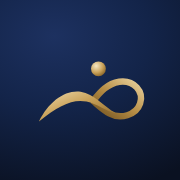
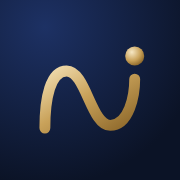
Marca Trilha N no cabeçalho e nos ícones do app
- .blogo (src/app/corpo.html): trilha em N + ponto da meta, mesmas
  variáveis --lg1/2/3 no claro e no escuro
- icons/: favicon-32 (traço 12), icon-192/512, maskable-512 (margem
  segura), apple-touch-icon, fundo do ícone em gradiente
- CLAUDE.md e docs/decisoes.md atualizados
- t79 (75) e rodada rápida passando

Claude-Session: https://claude.ai/code/session_01HEbK3ZzY7hrRX92iGGm1FD

Changed region(s): [[0.1944, 0.3611, 0.8056, 0.75], [0.6944, 0.25, 0.8056, 0.3611], [0.5, 0.3333, 0.6111, 0.4444]]

diff --git a/index.html b/index.html
@@ -15,12 +15,12 @@
 <meta name="apple-mobile-web-app-title" content="Nexus">
 <meta name="apple-mobile-web-app-status-bar-style" content="default">
 <style>:root{color-scheme:light;padding-top:env(safe-area-inset-top,0px);padding-bottom:env(safe-area-inset-bottom,0px)}body{margin:0;font:14px/1.5 system-ui,-apple-system,sans-serif}img{max-width:100%}[hidden]{display:none!important}</style>
-<link rel="stylesheet" href="site.css?v=5f52de37">
+<link rel="stylesheet" href="site.css?v=640cb733">
 <script src="https://www.gstatic.com/firebasejs/10.12.2/firebase-app-compat.js"></script>
 <script src="https://www.gstatic.com/firebasejs/10.12.2/firebase-auth-compat.js"></script>
 <script src="https://www.gstatic.com/firebasejs/10.12.2/firebase-firestore-compat.js"></script>
-<script src="config.js?v=5f52de37"></script>
-<script src="bridge.js?v=5f52de37"></script>
+<script src="config.js?v=640cb733"></script>
+<script src="bridge.js?v=640cb733"></script>
 </head>
 <body>
 <script>
@@ -2314,7 +2314,7 @@ html[data-cols="2"]:is([data-layout="desktop"],[data-layout="tablet"]) .cdnumg{g
   <header>
     <button class="hbtn hmenu" id="navMenuBtn" type="button" aria-label="Abrir o menu" title="Menu" aria-expanded="false"><svg class="hico" viewBox="0 0 24 24" aria-hidden="true"><path d="M4 7h16M4 12h16M4 17h16"/></svg></button>
     <div class="hacts" id="hacts"><button class="hbtn" id="srchBtn" type="button" aria-label="Buscar em tudo" title="Buscar em tudo (Ctrl+K)"><svg class="hico" viewBox="0 0 24 24" aria-hidden="true"><circle cx="10.5" cy="10.5" r="6"/><path d="M15 15l5 5"/></svg></button><button class="hbtn hprof" id="profBtn" type="button" aria-label="Perfil" title="Perfil" aria-pressed="false"><svg class="hico" viewBox="0 0 24 24" aria-hidden="true"><circle cx="12" cy="8.5" r="3.6"/><path d="M4.8 20c.9-3.6 3.8-5.6 7.2-5.6s6.3 2 7.2 5.6"/></svg><span id="profIni"></span></button><button class="hbtn" id="cfgBtn" type="button" aria-label="Configurações" title="Configurações" aria-pressed="false"><svg class="hico" viewBox="0 0 24 24" aria-hidden="true"><circle cx="12" cy="12" r="3.1"/><path d="M19.4 13.4a7.7 7.7 0 0 0 0-2.8l2-1.6-2-3.4-2.4 1a7.4 7.4 0 0 0-2.4-1.4L14.2 2.6h-4l-.4 2.6a7.4 7.4 0 0 0-2.4 1.4l-2.4-1-2 3.4 2 1.6a7.7 7.7 0 0 0 0 2.8l-2 1.6 2 3.4 2.4-1a7.4 7.4 0 0 0 2.4 1.4l.4 2.6h4l.4-2.6a7.4 7.4 0 0 0 2.4-1.4l2.4 1 2-3.4z"/></svg></button></div>
-    <h1 class="brand"><svg class="blogo" viewBox="0 0 120 80" aria-hidden="true" focusable="false"><defs><linearGradient id="nxg1" x1="0" y1="0" x2="1" y2="1"><stop offset="0" style="stop-color:var(--lg1,#F1DDB0)"/><stop offset=".45" style="stop-color:var(--lg2,#C9A25A)"/><stop offset="1" style="stop-color:var(--lg3,#8A6528)"/></linearGradient><linearGradient id="nxg2" x1="1" y1="0" x2="0" y2="1"><stop offset="0" style="stop-color:var(--lg1,#E9D19C)"/><stop offset=".5" style="stop-color:var(--lg2,#B68D45)"/><stop offset="1" style="stop-color:var(--lg3,#6E4F1E)"/></linearGradient><radialGradient id="nxg3" cx=".35" cy=".3" r=".75"><stop offset="0" style="stop-color:var(--lg1,#F6E7C4)"/><stop offset=".6" style="stop-color:var(--lg2,#C9A25A)"/><stop offset="1" style="stop-color:var(--lg3,#8A6528)"/></radialGradient></defs><path d="M63 49 C70 40 77 32 89 30 C104 28 114 40 110 52 C106 64 90 68 79 62 C72 58 67 53 62 49" fill="none" stroke="url(#nxg2)" stroke-width="6.5" stroke-linecap="butt"/><path d="M8 70 C18 50 34 38 50 40 C64 42 72 54 86 62 C76 60 66 52 56 50 C42 47 28 54 8 70 Z" fill="url(#nxg1)"/><circle cx="68" cy="17" r="7.5" fill="url(#nxg3)"/></svg><span class="bname"><span class="bn1">Nexus</span><span class="vh"> - </span><span class="bn2">Trilha Médica</span></span></h1>
+    <h1 class="brand"><svg class="blogo" viewBox="0 0 120 80" aria-hidden="true" focusable="false"><defs><linearGradient id="nxg1" x1="0" y1="0" x2="1" y2="1"><stop offset="0" style="stop-color:var(--lg1,#F1DDB0)"/><stop offset=".45" style="stop-color:var(--lg2,#C9A25A)"/><stop offset="1" style="stop-color:var(--lg3,#8A6528)"/></linearGradient><radialGradient id="nxg3" cx=".35" cy=".3" r=".75"><stop offset="0" style="stop-color:var(--lg1,#F6E7C4)"/><stop offset=".6" style="stop-color:var(--lg2,#C9A25A)"/><stop offset="1" style="stop-color:var(--lg3,#8A6528)"/></radialGradient></defs><path d="M25 66 C25 44 29 24 41 24 C55 24 59 64 73 64 C87 64 91 42 91 30" fill="none" stroke="url(#nxg1)" stroke-width="8" stroke-linecap="round" stroke-linejoin="round"/><circle cx="91" cy="13" r="7" fill="url(#nxg3)"/></svg><span class="bname"><span class="bn1">Nexus</span><span class="vh"> - </span><span class="bn2">Trilha Médica</span></span></h1>
     <p class="lede">198 temas de alta recorrência nas 5 grandes áreas. Estude no seu ritmo: o app agenda as revisões e mostra onde você mais erra.</p>
   </header>
 

diff --git a/src/app/corpo.html b/src/app/corpo.html
@@ -4,7 +4,7 @@
   <header>
     <button class="hbtn hmenu" id="navMenuBtn" type="button" aria-label="Abrir o menu" title="Menu" aria-expanded="false"><svg class="hico" viewBox="0 0 24 24" aria-hidden="true"><path d="M4 7h16M4 12h16M4 17h16"/></svg></button>
     <div class="hacts" id="hacts"><button class="hbtn" id="srchBtn" type="button" aria-label="Buscar em tudo" title="Buscar em tudo (Ctrl+K)"><svg class="hico" viewBox="0 0 24 24" aria-hidden="true"><circle cx="10.5" cy="10.5" r="6"/><path d="M15 15l5 5"/></svg></button><button class="hbtn hprof" id="profBtn" type="button" aria-label="Perfil" title="Perfil" aria-pressed="false"><svg class="hico" viewBox="0 0 24 24" aria-hidden="true"><circle cx="12" cy="8.5" r="3.6"/><path d="M4.8 20c.9-3.6 3.8-5.6 7.2-5.6s6.3 2 7.2 5.6"/></svg><span id="profIni"></span></button><button class="hbtn" id="cfgBtn" type="button" aria-label="Configurações" title="Configurações" aria-pressed="false"><svg class="hico" viewBox="0 0 24 24" aria-hidden="true"><circle cx="12" cy="12" r="3.1"/><path d="M19.4 13.4a7.7 7.7 0 0 0 0-2.8l2-1.6-2-3.4-2.4 1a7.4 7.4 0 0 0-2.4-1.4L14.2 2.6h-4l-.4 2.6a7.4 7.4 0 0 0-2.4 1.4l-2.4-1-2 3.4 2 1.6a7.7 7.7 0 0 0 0 2.8l-2 1.6 2 3.4 2.4-1a7.4 7.4 0 0 0 2.4 1.4l.4 2.6h4l.4-2.6a7.4 7.4 0 0 0 2.4-1.4l2.4 1 2-3.4z"/></svg></button></div>
-    <h1 class="brand"><svg class="blogo" viewBox="0 0 120 80" aria-hidden="true" focusable="false"><defs><linearGradient id="nxg1" x1="0" y1="0" x2="1" y2="1"><stop offset="0" style="stop-color:var(--lg1,#F1DDB0)"/><stop offset=".45" style="stop-color:var(--lg2,#C9A25A)"/><stop offset="1" style="stop-color:var(--lg3,#8A6528)"/></linearGradient><linearGradient id="nxg2" x1="1" y1="0" x2="0" y2="1"><stop offset="0" style="stop-color:var(--lg1,#E9D19C)"/><stop offset=".5" style="stop-color:var(--lg2,#B68D45)"/><stop offset="1" style="stop-color:var(--lg3,#6E4F1E)"/></linearGradient><radialGradient id="nxg3" cx=".35" cy=".3" r=".75"><stop offset="0" style="stop-color:var(--lg1,#F6E7C4)"/><stop offset=".6" style="stop-color:var(--lg2,#C9A25A)"/><stop offset="1" style="stop-color:var(--lg3,#8A6528)"/></radialGradient></defs><path d="M63 49 C70 40 77 32 89 30 C104 28 114 40 110 52 C106 64 90 68 79 62 C72 58 67 53 62 49" fill="none" stroke="url(#nxg2)" stroke-width="6.5" stroke-linecap="butt"/><path d="M8 70 C18 50 34 38 50 40 C64 42 72 54 86 62 C76 60 66 52 56 50 C42 47 28 54 8 70 Z" fill="url(#nxg1)"/><circle cx="68" cy="17" r="7.5" fill="url(#nxg3)"/></svg><span class="bname"><span class="bn1">Nexus</span><span class="vh"> - </span><span class="bn2">Trilha Médica</span></span></h1>
+    <h1 class="brand"><svg class="blogo" viewBox="0 0 120 80" aria-hidden="true" focusable="false"><defs><linearGradient id="nxg1" x1="0" y1="0" x2="1" y2="1"><stop offset="0" style="stop-color:var(--lg1,#F1DDB0)"/><stop offset=".45" style="stop-color:var(--lg2,#C9A25A)"/><stop offset="1" style="stop-color:var(--lg3,#8A6528)"/></linearGradient><radialGradient id="nxg3" cx=".35" cy=".3" r=".75"><stop offset="0" style="stop-color:var(--lg1,#F6E7C4)"/><stop offset=".6" style="stop-color:var(--lg2,#C9A25A)"/><stop offset="1" style="stop-color:var(--lg3,#8A6528)"/></radialGradient></defs><path d="M25 66 C25 44 29 24 41 24 C55 24 59 64 73 64 C87 64 91 42 91 30" fill="none" stroke="url(#nxg1)" stroke-width="8" stroke-linecap="round" stroke-linejoin="round"/><circle cx="91" cy="13" r="7" fill="url(#nxg3)"/></svg><span class="bname"><span class="bn1">Nexus</span><span class="vh"> - </span><span class="bn2">Trilha Médica</span></span></h1>
     <p class="lede">198 temas de alta recorrência nas 5 grandes áreas. Estude no seu ritmo: o app agenda as revisões e mostra onde você mais erra.</p>
   </header>
 

diff --git a/sw.js b/sw.js
@@ -1,7 +1,7 @@
 /* Funciona sem internet: guarda os arquivos do app no aparelho.
    Arquivos do site: tenta a rede primeiro (para receber atualizações) e usa a cópia guardada se estiver sem internet.
    Fontes e Firebase: usa a cópia guardada. O banco de dados (Firestore) não passa por aqui. */
-const V = "checklist-5f52de37";
+const V = "checklist-640cb733";
 const CORE = ["./", "index.html", "bridge.js", "config.js", "site.css", "manifest.webmanifest",
   "icons/icon-192.png", "icons/icon-512.png", "icons/apple-touch-icon.png"];
 self.addEventListener("install", e => { e.waitUntil(caches.open(V).then(c => c.addAll(CORE)).then(() => self.skipWaiting())); });

diff --git a/docs/decisoes.md b/docs/decisoes.md
@@ -23,6 +23,7 @@ com a data e não apague o histórico.
 - Hospedagem própria, domínio e armazenamento de arquivos (R2/Worker): conversa de 01/11/2026, **não fazer agora**, só quando o app estiver estável e houver semanas de uso real. (claude/problemas-a-resolver.md › Ideias profundas)
 - **Sem lembretes nem notificações** (10/10/2026); eventos de calendário sem alerta. **Sem Notion.** (claude/integracoes.md; skill nexus-dev)
 - **Lixeira fora do backup** (12/11/2026, 14h36: "Não precisa da lixeira no backup"): ela vive 30 dias no aparelho e na conta; o backup não a leva. (tools/mapa/dados.js › FORA)
+- **Marca "Trilha N"** (proposta B de 03/11) no app, nos ícones e no site de lançamento (19/11/2026, 22h35: "Sim" para trocar no app também). (claude/logomarca-proposta-b.md, claude/site-de-vendas.md)
 - Se o GitHub cair: não propor outro serviço de código sem o usuário pedir e **nunca sugerir criar outra conta no GitHub**. (skill nexus-dev)
 
 ## Questões e Banco de questões

diff --git a/CLAUDE.md b/CLAUDE.md
@@ -1,6 +1,6 @@
 # Nexus - Trilha Médica — Checklist Residência Médica
 
-Marca (desde 10/2026): nome **Nexus - Trilha Médica**; símbolo dourado (fita + ponto) em SVG inline no `h1.brand` (`.blogo`, dourado por tema em `--lg1/2/3`)
+Marca (desde 10/2026): nome **Nexus - Trilha Médica**; símbolo dourado "Trilha N" (trilha em N + ponto da meta, desde 19/11/2026; antes fita + laço) em SVG inline no `h1.brand` (`.blogo`, dourado por tema em `--lg1/2/3`)
 e ícones em `icons/`. Paleta: claro = off-white `#f3f0e9`, azul-marinho `#16264a` (`--accent`), dourado `--gold`; escuro = `#0a1121` com dourado `#cfab63`
 como `--accent`. Fontes: Cormorant Garamond (`--display`, títulos) e Manrope (`--body` e `--mono`). Teste da marca: `tests/t79.js`.
 
